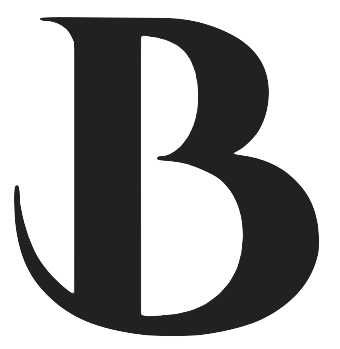
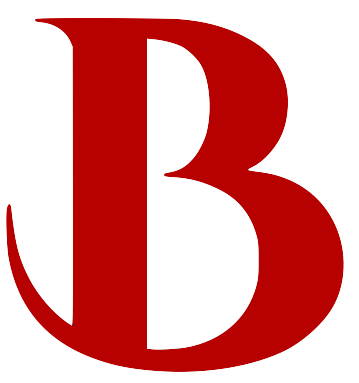
Adjusted badlister imgs

diff --git a/index-style.css b/index-style.css
@@ -384,7 +384,7 @@ footer {
 .coffee-img { background-image: url("./img/beans-brown-coffee-34085.jpg"); }
 .contacts-img { background-image: url("./img/address-book-black-and-white-business-205414.jpg"); }
 .movie-list-img { background-image: url("./img/close-up-filmstrip-negatives-133070.jpg"); }
-.badlister-img { background-image: url("./img/badlister-logo.jpg")}
+.badlister-img { background-image: url("./img/badlister_b.jpg")}
 
 /*CONTACT*/
 .goog-form-embed {
@@ -1052,7 +1052,6 @@ footer {
         position: relative;
         height: 250px;
         width: 100%;
-        background: red;
         border-bottom: #5e5e5e 2px solid;
         border-radius: 10px;
     }
@@ -1101,7 +1100,7 @@ footer {
     }
 
     .contact-box {
-         grid-template-rows: 22vh 128vh 16vh;
+         grid-template-rows: 22vh 132vh 16vh;
          background: linear-gradient(
             rgba(41, 41, 41, 0.85),
             rgba(33, 71, 89, 0.85)),
@@ -1179,6 +1178,6 @@ footer {
     #movie-lister-img { background-image: url("img/close-up-filmstrip-negatives-133070.jpg"); }
     #coffee-lister-img { background-image: url("img/beans-brown-coffee-34085.jpg"); }
     #contacts-img { background-image: url("img/address-book-black-and-white-business-205414.jpg"); }
-    #badlister-bgimg { background-image: url("img/badlister.jpg")}
+    #badlister-bgimg { background-image: url("img/badlister_test.jpg")}
 
 }
